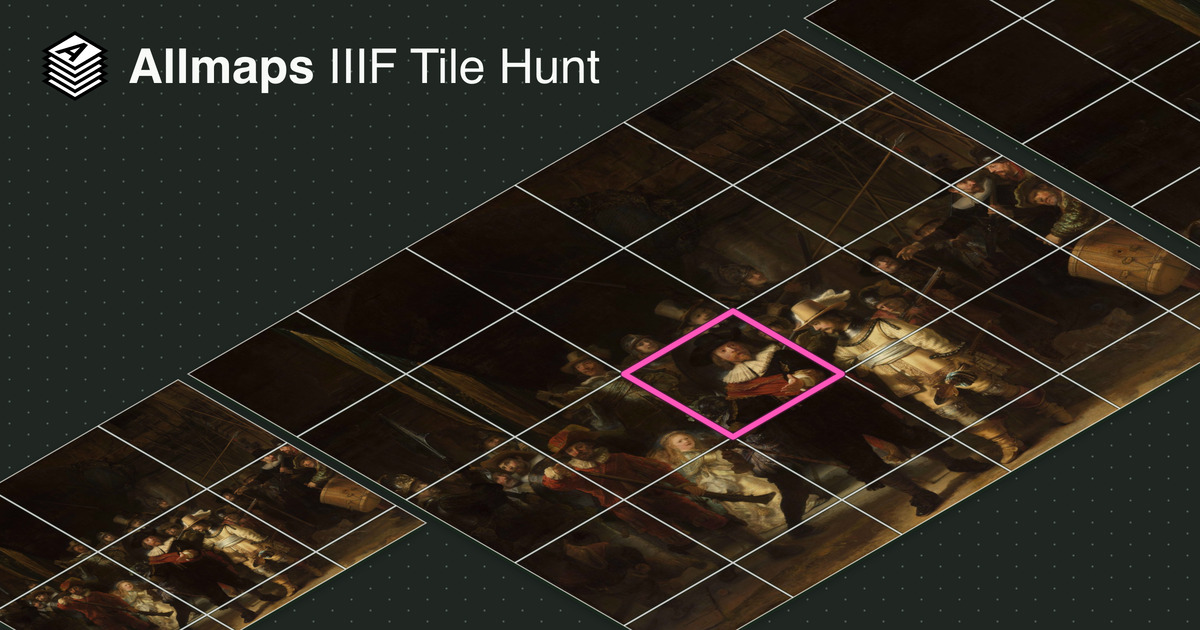
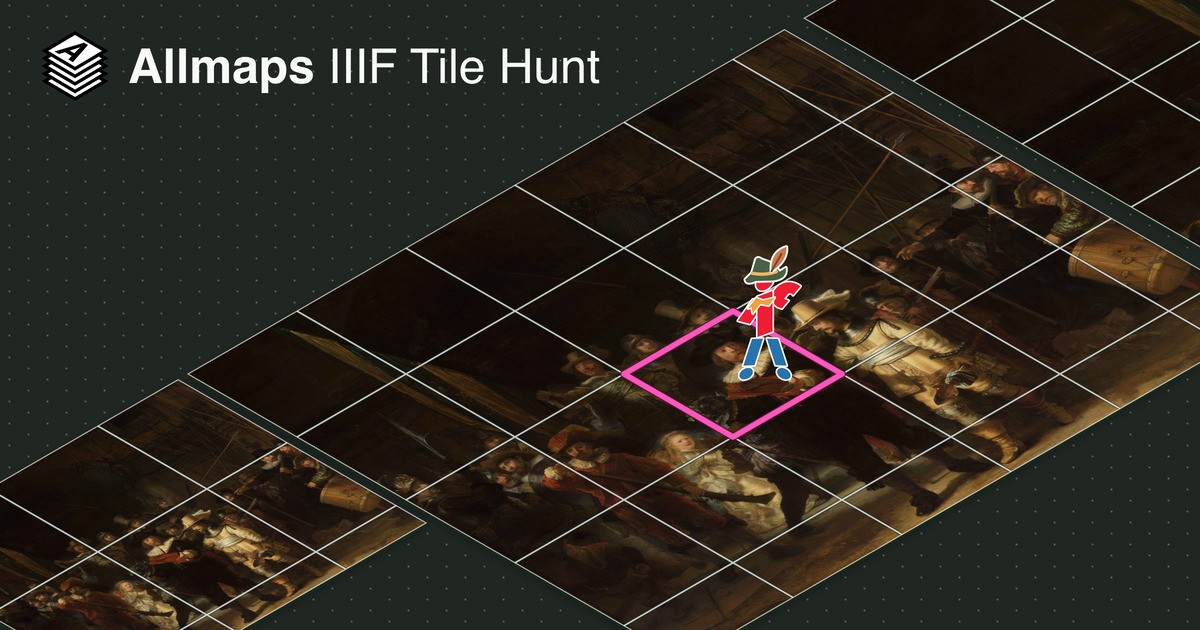
feat: show the Alpine hunter in the Tile Hunt social preview

Changed region(s): [[0.6167, 0.3921, 0.6783, 0.6333]]

diff --git a/src/lib/PageMetadata.svelte b/src/lib/PageMetadata.svelte
@@ -19,11 +19,12 @@
     ).replace(/\/+$/, '') + '/'
   const canonical = $derived(new URL(path, site).href)
   const image = $derived(
-    new URL(game ? 'social/tile-hunt.jpg' : 'social/pyramid.jpg', site).href
+    new URL(game ? 'social/tile-hunt.jpg?v=alpine' : 'social/pyramid.jpg', site)
+      .href
   )
   const alt = $derived(
     game
-      ? 'Allmaps IIIF Tile Hunt. Isometric levels of The Night Watch lie side by side, with the captain’s tile outlined in pink.'
+      ? 'Allmaps IIIF Tile Hunt. A hunter in a feathered Alpine hat and scarf stands on a pink-outlined tile in the isometric pyramid of The Night Watch.'
       : 'Allmaps IIIF Pyramid. Stacked levels of The Night Watch show the tile grid, with the captain’s tile outlined in pink.'
   )
 </script>
